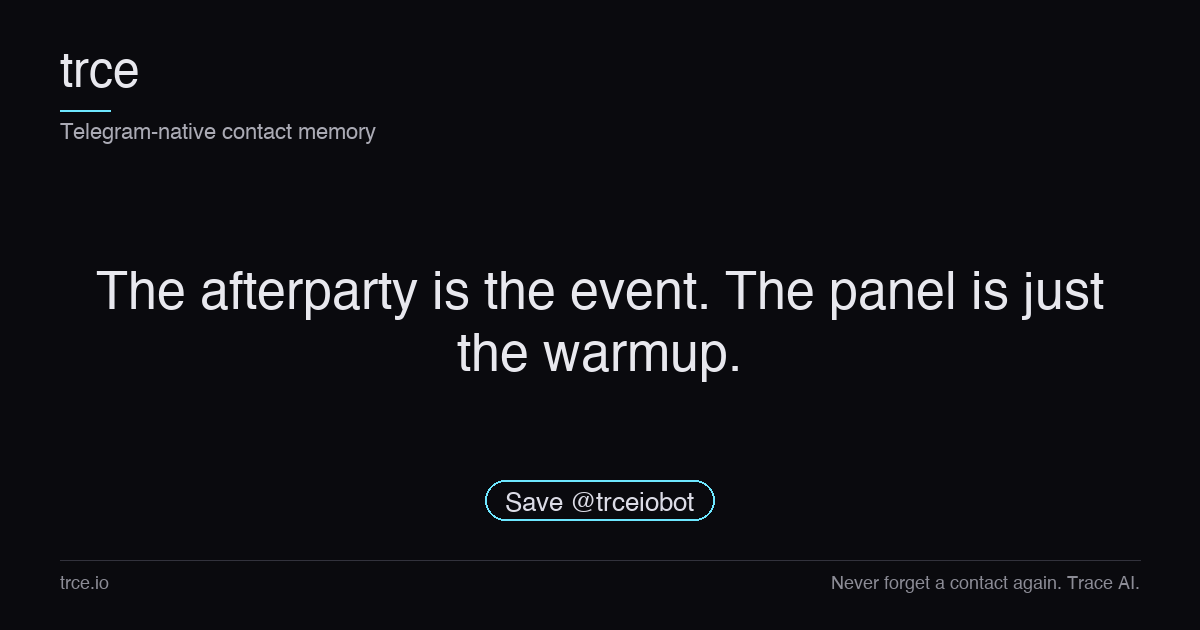
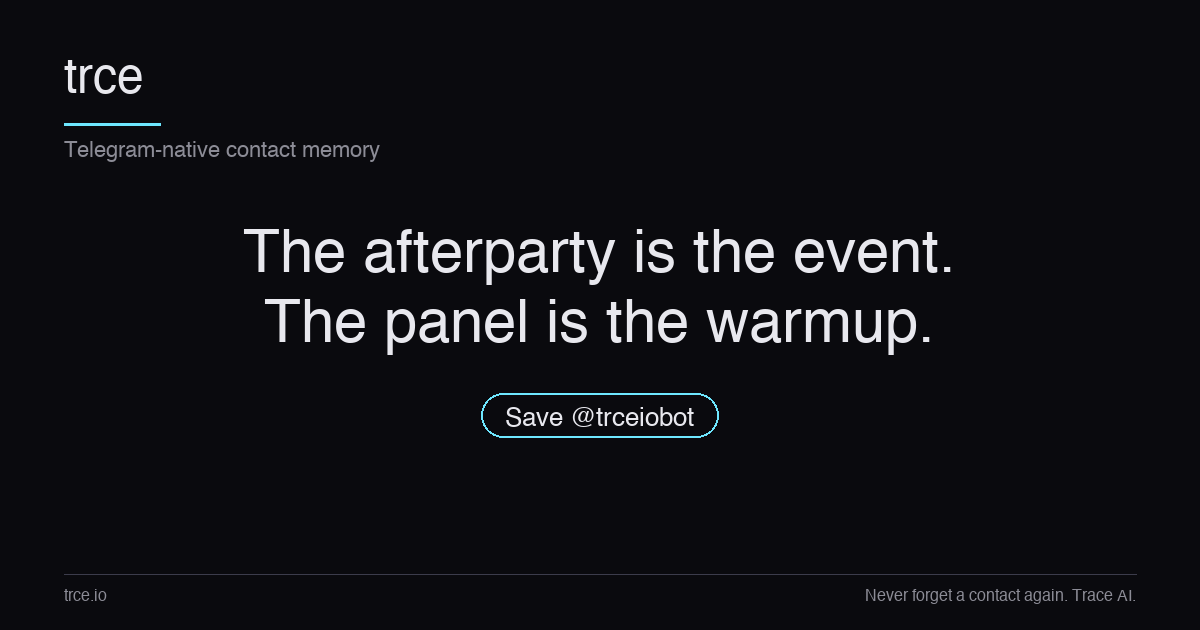
Blog: The afterparty is the event. The panel is the warmup.

diff --git a/website/blog/afterparty-is-the-event.html b/website/blog/afterparty-is-the-event.html
@@ -3,31 +3,34 @@
 <head>
 <meta charset="utf-8">
 <meta name="viewport" content="width=device-width, initial-scale=1">
-<title>The afterparty is the event. The panel is just the warmup.</title>
-<meta name="description" content="CEIR's 84% exhibitor-satisfaction data, Forrester's side-channel math, and the 3-hour window after the lights go down that produces most of your deals.">
-<meta property="og:title" content="The afterparty is the event. The panel is just the warmup.">
+<title>The afterparty is the event. The panel is the warmup.</title>
+<meta name="description" content="Bizzabo's 2026 report says only 15% of organizers rate their networking as very effective. The conversations that close deals happen after the badge scan ends.">
+<meta property="og:title" content="The afterparty is the event. The panel is the warmup.">
 <meta property="og:site_name" content="trce">
-<meta property="og:description" content="CEIR's 84% exhibitor-satisfaction data, Forrester's side-channel math, and the 3-hour window after the lights go down that produces most of your deals.">
+<meta property="og:description" content="Bizzabo's 2026 report says only 15% of organizers rate their networking as very effective. The conversations that close deals happen after the badge scan ends.">
 <meta property="og:type" content="article">
 <meta property="og:locale" content="en_US">
 <meta property="og:url" content="https://trce.io/blog/afterparty-is-the-event">
-<meta property="article:published_time" content="2026-08-17">
+<meta property="article:published_time" content="2026-09-03">
+<meta property="article:author" content="trce">
 <link rel="canonical" href="https://trce.io/blog/afterparty-is-the-event">
 <meta property="og:image" content="https://trce.io/assets/blog-covers/afterparty-is-the-event.png">
 <meta property="og:image:width" content="1200">
 <meta property="og:image:height" content="630">
-<meta property="og:image:alt" content="The afterparty is the event. The panel is just the warmup.">
+<meta property="og:image:alt" content="The afterparty is the event. The panel is the warmup.">
 <meta name="twitter:card" content="summary_large_image">
+<meta name="twitter:title" content="The afterparty is the event. The panel is the warmup.">
+<meta name="twitter:description" content="Bizzabo's 2026 report says only 15% of organizers rate their networking as very effective. The conversations that close deals happen after the badge scan ends.">
 <meta name="twitter:image" content="https://trce.io/assets/blog-covers/afterparty-is-the-event.png">
-<meta name="twitter:image:alt" content="The afterparty is the event. The panel is just the warmup.">
+<meta name="twitter:image:alt" content="The afterparty is the event. The panel is the warmup.">
 <link rel="icon" type="image/png" sizes="any" href="/assets/trce-logo-square.png">
 
 <script type="application/ld+json">
 {
   "@context": "https://schema.org",
   "@type": "BlogPosting",
-  "headline": "The afterparty is the event. The panel is just the warmup.",
-  "description": "CEIR's 84% exhibitor-satisfaction data, Forrester's side-channel math, and the 3-hour window after the lights go down that produces most of your deals.",
+  "headline": "The afterparty is the event. The panel is the warmup.",
+  "description": "Bizzabo's 2026 report says only 15% of organizers rate their networking as very effective. The conversations that close deals happen after the badge scan ends.",
   "author": {
     "@type": "Organization",
     "name": "trce",
@@ -41,8 +44,8 @@
       "url": "https://trce.io/logo.png"
     }
   },
-  "datePublished": "2026-08-17",
-  "dateModified": "2026-08-17",
+  "datePublished": "2026-09-03",
+  "dateModified": "2026-09-03",
   "mainEntityOfPage": {
     "@type": "WebPage",
     "@id": "https://trce.io/blog/afterparty-is-the-event"
@@ -98,7 +101,7 @@ body {
 .nav-links a { color: var(--text-2); text-decoration: none; transition: color .2s; }
 .nav-links a:hover { color: var(--text); }
 .nav-links a.active { color: var(--accent); }
-.btn-nav { font-family: 'JetBrains Mono', monospace; font-size: 12px; padding: 8px 16px; background: var(--accent); color: #0a0a0a; border: none; border-radius: 6px; cursor: pointer; text-decoration: none; }
+.btn-nav { font-family: 'JetBrains Mono', monospace; font-size: 12px; padding: 8px 16px; background: var(--accent); color: #0a0a0a; border: none; border-radius: 6px; text-decoration: none; }
 .avatar { width: 28px; height: 28px; border-radius: 50%; background: var(--surface-2); border: 1px solid var(--border); display: flex; align-items: center; justify-content: center; font-family: 'JetBrains Mono', monospace; font-size: 11px; color: var(--text-3); }
 
 article {
@@ -225,7 +228,7 @@ article code {
   </ul>
   <div style="display: flex; align-items: center; gap: 16px;">
     <a class="btn-nav" href="https://t.me/trceiobot" target="_blank" rel="noopener">Open Bot →</a>
-    <div class="avatar">T</div>
+    <div class="avatar">N</div>
   </div>
 </nav>
 
@@ -234,62 +237,56 @@ article code {
   <a class="back-link" href="/blog">← All posts</a>
 
   <header class="post-header">
-    <div class="post-label">Conference Tactics</div>
-    <h1>The afterparty is the event. <em>The panel is just the warmup.</em></h1>
+    <div class="post-label">Conference tactics</div>
+    <h1>The afterparty is the event. The panel is the warmup.</h1>
     <div class="post-meta">
-      <span>2026-08-17</span>
+      <span>trce</span>
+      <span>·</span>
+      <span>2026-09-03</span>
       <span>·</span>
       <span>5 min read</span>
     </div>
   </header>
 
-  <p>You flew 14 hours for Token2049. You sat through four panels, two keynotes, and a midday workshop on tokenizing real-world assets. By 9 p.m. your bag is over your shoulder and you are standing in the hotel lobby deciding whether to go to the rooftop.</p>
+  <p>You walked into Token2049 at 9am sharp. You sat through the L2 sequencer panel at 11. You queued for the keynote at 2. You left the venue at 6pm thinking you'd done a full day.</p>
 
-  <p>Go to the rooftop. Almost every deal you are going to close from this trip started in a room the program did not schedule.</p>
+  <p>You missed the entire event. The conversations that closed deals at Token2049 last year happened between 10pm and 2am, in a basement bar two streets from the official venue. Freeman's 2024 Attendee Intent and Behavior Report found that 80% of attendees say in-person events are the most trusted of all marketing channels — and that trust gets built when the badge scanner is off, the panel is over, and nobody is performing for a microphone.</p>
 
-  <h2>What exhibitors actually report</h2>
+  <h2>The numbers nobody prints on the schedule</h2>
 
-  <p>The Center for Exhibition Industry Research has been running the <em>CEIR Exhibitor Survey</em> since the late 1990s. Year after year, the data lands in the same place: roughly <strong>84% of exhibitors</strong> say their primary ROI comes from in-person conversations, not from the booth traffic, the demos, or the swag. And when you ask which conversations move the needle, the answer is not the structured networking breaks. It is the unstructured ones — the coffee line, the dinner, the afterparty.</p>
+  <p>Bizzabo's 2026 State of Events Benchmark Report dropped a number that should quiet every conference circuit: only 15% of event organizers now rate their networking experiences as very effective. That's a sharp drop from the year before. The same report says 75% of organizers believe immersive experiences are important — a 60-point gap between what they intend to deliver and what actually happens in the room.</p>
 
-  <p>Forrester's B2B event research lands on a similar point: roughly half of the deals an enterprise attributes to a trade show trace back to an unscheduled interaction. Not a demo. Not a keynote handshake. A hallway, a bar, a 1 a.m. walk to the next hotel.</p>
+  <p>And the official agenda is exactly where that gap lives. RainFocus's mid-2026 report found that meeting participation at small side events is up 69% year-over-year, while session attendance at the main stage is flat. People vote with their feet. The 10pm rooftop dinner beats the 2pm panel, almost every time.</p>
 
-  <p>The afterparty is not the recreational track. It is where the trust gets built. The panels and keynotes tell you what someone claims. The afterparty tells you who they actually are.</p>
+  <blockquote>The 90 minutes after a panel ends will produce more real conversations than the 90 minutes during the panel. The panel qualifies who you should find at the afterparty. It does not close anything.</blockquote>
 
-  <h2>Why the panel is the warmup</h2>
+  <h2>Why the afterparty actually works</h2>
 
-  <p>The panel is for status. People speak into microphones to position themselves in front of the room. You listen, you nod, you take notes on your phone. Nobody commits to anything. Nobody disagrees in public. The conversation is performative.</p>
+  <p>Three structural reasons. First, the social overhead collapses. There's no stage, no microphone, no moderator directing questions. The conversation reverts to one-on-one, which is where the work actually happens. Second, the trust gradient is steeper in a small group. Cvent's 2026 research (citing Spiro data) found purchase intent was 110% higher among event attendees who networked and interacted with new people than among those who didn't. Third, the room is self-selecting. The people who flew home at 6pm are not your buyers. The people still standing at midnight have already paid a tax to be there.</p>
 
-  <p>The afterparty is for substance. There is no microphone, no audience, no LinkedIn screenshot later. People say what they actually think about the roadmap, the round, the co-investor, the layoff rumours in their portfolio. You learn who has conviction and who is repeating a deck.</p>
+  <p>That selection tax is real. It's the same filter that makes morning-after-on-Telegram more honest than a contact-card-swap: only the people who actually care about the conversation stayed long enough to be reached.</p>
 
-  <blockquote>The afterparty is not the part of the conference you survive. It is the part you came for.</blockquote>
+  <h2>How to run the afterparty well</h2>
 
-  <p>The single highest-leverage hour of the trip is the one nobody writes a recap about. A 2019 Freeman <em>Brand Experience</em> report asked attendees what they remembered most about conferences they had attended in the past two years. The modal answer was not a keynote. It was a conversation — usually with one person — usually after hours.</p>
-
-  <h2>The three windows that matter</h2>
-
-  <p>Most people treat the conference as a single blob: arrive Monday, leave Wednesday, hope for the best. The people who close deals treat it as three distinct windows, and they weight their energy accordingly:</p>
+  <p>The afterparty isn't something you "attend" passively. It's a sequence you run.</p>
 
   <ul>
-    <li><strong>Day 1, evening.</strong> The opening reception. Low commitment. Best for first-contact — you collect names, you learn who is in town, you scan the room for the two or three people you actually want to lock down later. Heavy on intake, light on depth.</li>
-    <li><strong>Day 2, after hours.</strong> This is the actual event. The dinner, the rooftop, the karaoke bar the side event forgot to put on the schedule. Heavy on depth. This is where deals get seeded, not signed.</li>
-    <li><strong>Day 3, breakfast slot.</strong> The underrated one. Most people are hungover or already gone. The two people who show up to the 8 a.m. breakfast have signalled commitment. That is the room you want to be in.</li>
+    <li><strong>Pick the room before you fly.</strong> Skim the conference Discord, the speaker side-channels, the sponsor WhatsApp groups. The good afterparty is announced in a Telegram DM, not on the official schedule.</li>
+    <li><strong>Show up by 10pm, not midnight.</strong> The first 60 minutes of a side event are when the highest-density contacts are still reachable. By 1am, half the room has gone back to the hotel.</li>
+    <li><strong>Anchor on one question per person.</strong> The same anchor trick from the panel Q&A works at the bar — ask about a project, not a job title. You'll remember them three weeks later.</li>
+    <li><strong>Forward the QR within 90 seconds.</strong> The conversation that just happened is already half-forgotten by the time you walk to the next table. Capture while it's warm.</li>
+    <li><strong>Tag the room.</strong> When you save the contact, include <code>token2049-afterparty-basement</code>. When you search your database six weeks later, the context comes back with the name.</li>
   </ul>
 
-  <p>The mistake is treating all three the same. They are not. Day 1 is reconnaissance. Day 2 is the core. Day 3 is the harvest.</p>
+  <h2>The system</h2>
 
-  <h2>What changes when you accept this</h2>
+  <p>Open <code>@trceiobot</code>, type <code>/trip set Token2049</code>, and forward one Telegram QR from the person you just met at the afterparty. The bot saves the contact, tags it with the trip name, and the moment is captured in under three taps. By the time you get back to the hotel, the database is already organised. The 24-hour follow-up window stays open.</p>
 
-  <p>Once you accept that the afterparty is the event, your behaviour changes. You stop trying to attend every panel. You stop queueing for the speaker meet-and-greet. You spend the panel slot in the lobby meeting the people who are also skipping the panel.</p>
-
-  <p>You pre-load the afterparty. You tell three people on day 1 that you want to grab dinner on day 2. You send the Telegram handle now, not later. The commitment is made before the decision feels obvious, which is the only window where it can be made.</p>
-
-  <p>And — this is the part most people skip — you capture the contacts in the same five-second window you would any other contact. Forward the QR to <code>@trceiobot</code>, drop the anchor for the conversation, move on. The data on the afterparty is the same data as the panel data. It just has a higher yield per conversation.</p>
-
-  <p>You came to network, not to watch panels about networking. The lights going down is the cue, not the curfew.</p>
+  <p>That's the whole job of a conference. Not the panels. Not the keynotes. The afterparty — and the system that remembers it.</p>
 
   <div class="cta-box">
-    <h3>Catch every afterparty contact.</h3>
-    <p>Forward a Telegram QR to @trceiobot right after the conversation. Index name, topic, and where you met — before you lose it in the cab.</p>
+    <h3>Remember everyone from the afterparty.</h3>
+    <p>Forward a Telegram QR to @trceiobot right now. Three taps. Done.</p>
     <a class="btn-cta" href="https://t.me/trceiobot" target="_blank" rel="noopener">Open @trceiobot →</a>
   </div>
 

diff --git a/website/blog/index.html b/website/blog/index.html
@@ -278,6 +278,22 @@ body {
 
 <section class="posts">
 
+  <a class="post-card" href="/blog/afterparty-is-the-event">
+    <div class="post-cover">
+      <div class="post-cover-pattern"></div>
+      <div class="post-cover-icon">◍</div>
+    </div>
+    <div class="post-body">
+      <div class="post-meta">
+        <span>2026-09-03</span>
+        <span class="post-tag">conference tactics</span>
+      </div>
+      <h2>The afterparty is the event. The panel is the warmup.</h2>
+      <p>Bizzabo's 2026 report says only 15% of organizers rate networking as very effective. The conversations that close deals happen after the badge scanner is off — and the system that remembers them.</p>
+      <div class="post-cta">Read post →</div>
+    </div>
+  </a>
+
   <a class="post-card" href="/blog/forget-80-percent-conference-contacts-friday">
     <div class="post-cover">
       <div class="post-cover-pattern"></div>
